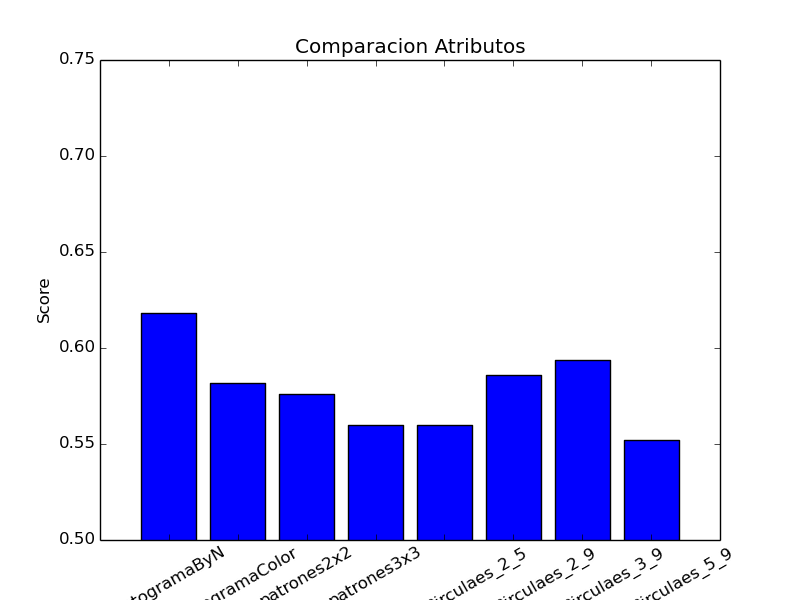
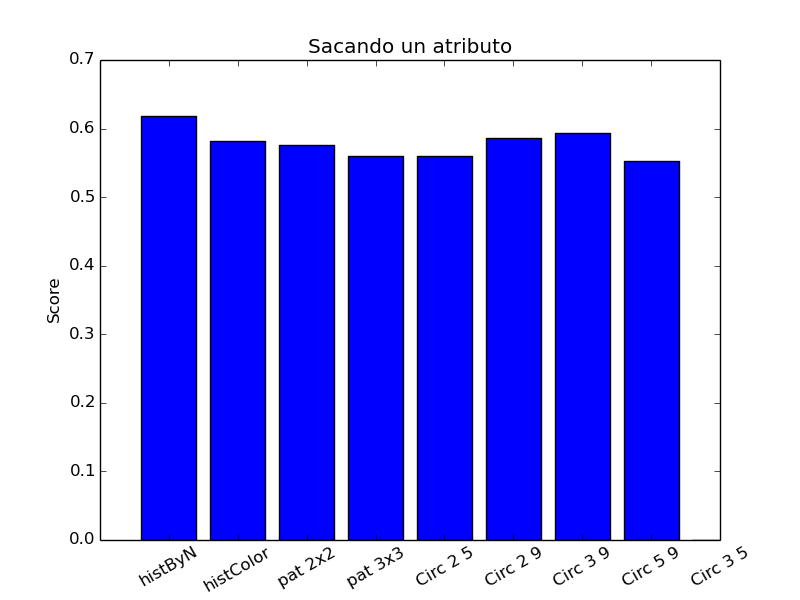
Subo resultados de seleccion de atributos y graficos de la misma

diff --git a/TP2/src/plot_comparacion_atributos.py b/TP2/src/plot_comparacion_atributos.py
@@ -3,22 +3,25 @@ import matplotlib.pyplot as plt
 
 
 def main():
-	x = range(1,9)
-	y = [0.618,0.582,0.576,0.56,0.56,0.586,0.594,0.552]
-	labels=['histogramaByN','histogramaColor','patrones2x2','patrones3x3','patronesCirculaes_2_5','patronesCirculaes_2_9','patronesCirculaes_3_9','patronesCirculaes_5_9']
-	fig, ax = plt.subplots()
-	plt.title("Comparacion Atributos")
-	plt.ylabel("Score")
-	ax.bar(x,y,align='center')
-	ax.set_ylim([0.50,0.75])
-	ax.set_xticks(x)
-	ax.set_xticklabels(labels,rotation=30)
-	ax.legend()
-	#plt.show()
-	#return
-	file_path = "../imagenes/comparacion_atributos_sacando_uno"
+	x = range(1,10)
+	y = [[0.618,0.582,0.576,0.56,0.56,0.586,0.594,0.552,0],[0.508,0.518,0.584,0.584,0.572,0.558,0.556,0.606,0.552],[48, 143, 16, 63, 8, 25, 22, 18, 7],[0.1875, 0.18619791666666666, 1.0, 0.123046875, 1.0, 0.4166666666666667, 0.36666666666666664, 0.3, 0.875],[0.12430044676328877, 0.39838284003302066, 0.014873884486647504, 0.35875888461242939, 0.0049779276480328895, 0.028127599418183897, 0.03105365990931936, 0.034551961531363543, 0.0049727955977149057],[0.00048554862016909677, 0.00051872765629299561, 0.000929617780415469, 0.00070070094650865114, 0.00062224095600411119, 0.00046879332363639829, 0.00051756099848865604, 0.00057586602552272572, 0.00062159944971436321]]
+	titles = ["Sacando un atributo","Entrenando con solo un atributo","Cantidad de variables seleccionas en el 20 percentil univariado","Porcentaje de variables seleccionas en el 20 percentil univariado","Importancia porcentual acumulada de la seleccion multivariada","Importancia porcentual promedio por variable de la seleccion multivariada"]
+	file_name = ['comparacion_atributos_sacando_uno','comparacion_atributos_de_a_uno','univar_cant_var','univar_porcentaj_var','multivar_porcentaj_acum','multivar_porcentaj_prom']
+	labels=['histByN','histColor','pat 2x2','pat 3x3','Circ 2 5','Circ 2 9','Circ 3 9','Circ 5 9','Circ 3 5']
+	for i in xrange(0,len(y)):
+		fig, ax = plt.subplots()
+		plt.title(titles[i])
+		plt.ylabel("Score")
+		ax.bar(x,y[i],align='center')
+		#ax.set_ylim([0.50,0.75])
+		ax.set_xticks(x)
+		ax.set_xticklabels(labels,rotation=30)
+		ax.legend()
+		#plt.show()
+		#return
+		file_path = "../imagenes/"+file_name[i]
 
-	plt.savefig(file_path, dpi=None, facecolor='w', edgecolor='w',orientation='portrait', papertype=None, format=None,transparent=False, bbox_inches=None, pad_inches=0.1,frameon=None)
-	plt.close()
+		plt.savefig(file_path, dpi=None, facecolor='w', edgecolor='w',orientation='portrait', papertype=None, format=None,transparent=False, bbox_inches=None, pad_inches=0.1,frameon=None)
+		plt.close()
 
 main()
